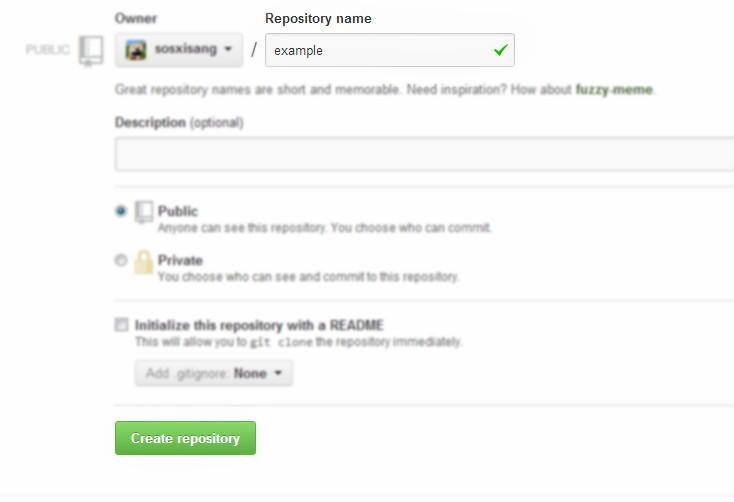
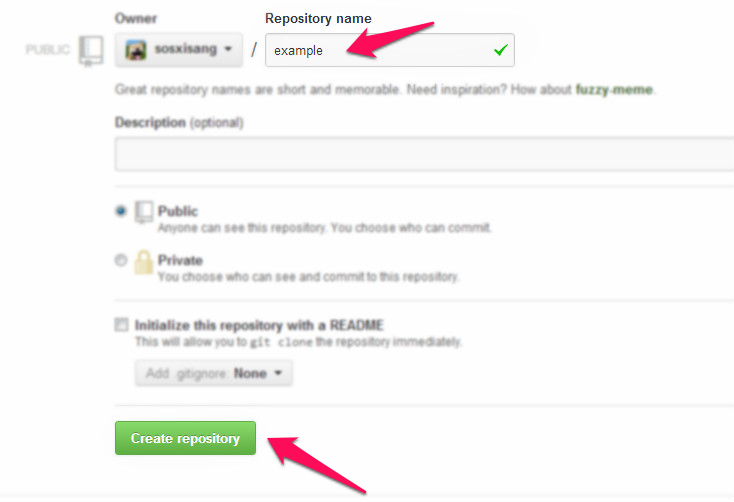
update articles

Changed region(s): [[0.3597, 0.8665, 0.5095, 0.9861], [0.4496, 0.0299, 0.5995, 0.1195]]

diff --git a/articles/howto-use-simplog-on-windows7-to-deploy-github-pages-2.html b/articles/howto-use-simplog-on-windows7-to-deploy-github-pages-2.html
@@ -31,7 +31,7 @@
                     <a href="/articles/howto-use-simplog-on-windows7-to-deploy-github-pages-2.html">Git和GitHub动手玩</a>
                 </div>
                 <div id="article-meta">
-                    作者 Akim | 发布于 2013-07-03 | 最后更新 2013-07-03
+                    作者 Akim | 发布于 2013-07-03 | 最后更新 2013-07-04
                 </div>
                 <div id="article-tags">
                     <a class="tag" href="/tag.html#Git">Git</a><a class="tag" href="/tag.html#搭建博客">搭建博客</a>
@@ -46,12 +46,16 @@
 <li><p>点击<strong>New Repository</strong>新建一个Repository。</p>
 <p class="picture"><img alt="" src="/uploads/pictures/howto-use-simplog-on-windows7-to-deploy-github-pages-2/New_Repository.png"/></p>
 </li>
-<li><p>填写<strong>Repository name</strong>，如下图，如果你的用户名叫<pre class="prettyprint">yourusername</pre>
-那么你的Repository Name必须填写为<pre class="prettyprint">yourusername.github.com</pre>
-这样GitHub就会自动根据这个特殊的代码仓库里的文件生成网站了。</p>
+<li><p>填写<strong>Repository name</strong>，这是一个例子，所以起名叫做<pre class="prettyprint">example</pre>
+权限就保持默认的public不变。
+如果选中<strong>Initialize this repository with a README</strong>这个复选框，GitHub就会帮你在你的Repository下创建一个README.md文件。
+暂时不用勾选，因为我们马上就会学习如何通过Git来上传一个README到这个新创建的Repository。效果和选中这个复选框是一样的。</p>
 <p class="picture"><img alt="" src="/uploads/pictures/howto-use-simplog-on-windows7-to-deploy-github-pages-2/name_your_repository.png"/></p>
+点击<strong>Create repository</strong>。创建成功后，页面上会提供一些提示，告诉我们应该如何使用Git命令在本地初始化一个仓库。
+<p class="picture"><img alt="" src="/uploads/pictures/howto-use-simplog-on-windows7-to-deploy-github-pages-2/quick_setup.png"/></p>
 </li>
-<li><p>点击<a href="http://code.google.com/p/msysgit/downloads/list">msysgit</a>下载Git安装包，然后在你的Windows7上安装Git。</p>
+<li><p>接下来我们来配置计算机的Git环境。
+点击<a href="http://code.google.com/p/msysgit/downloads/list">msysgit</a>下载Git安装包，然后在你的Windows7上安装Git。</p>
 </li>
 </ol>
 <p>5.</p>

diff --git a/articles/howto-use-simplog-on-windows7-to-deploy-github-pages-1.html b/articles/howto-use-simplog-on-windows7-to-deploy-github-pages-1.html
@@ -3,11 +3,11 @@
     <head>
         <meta http-equiv="X-UA-Compatible" content="IE=edge,chrome=1"/>
         <meta http-equiv="Content-Type" content="text/html; charset=UTF-8"/>
-        <meta name="description" content="在Windows7上用simplog搭建GitHub Pages静态博客（二）"/>
+        <meta name="description" content="在Windows7上用simplog搭建GitHub Pages静态博客（一）"/>
         <meta name="keywords" content="编程,代码,计算机,数学,算法,编译器"/>
         <meta name="author" content="Akim"/>
         <meta name="viewport" content="width=device-width, initial-scale=1, maximum-scale=1"/>
-        <title>Akim_Shuyue - Git和GitHub动手玩</title>
+        <title>Akim_Shuyue - 初识Git和GitHub</title>
         <link rel="stylesheet" href="/assets/vendor/normalize.css"/>
         <link rel="stylesheet" href="/assets/vendor/prettify.css"/>
         <link rel="stylesheet" href="/assets/css/simplog.css"/>
@@ -28,10 +28,10 @@
         <div id="main">
             <div id="main-inner">
                 <div id="article-title">
-                    <a href="/articles/howto-use-simplog-on-windows7-to-deploy-github-pages-1.html">Git和GitHub动手玩</a>
+                    <a href="/articles/howto-use-simplog-on-windows7-to-deploy-github-pages-1.html">初识Git和GitHub</a>
                 </div>
                 <div id="article-meta">
-                    作者 Akim | 发布于 2013-07-03 | 最后更新 2013-07-03
+                    作者 Akim | 发布于 2013-07-01 | 最后更新 2013-07-04
                 </div>
                 <div id="article-tags">
                     <a class="tag" href="/tag.html#Git">Git</a><a class="tag" href="/tag.html#搭建博客">搭建博客</a>
